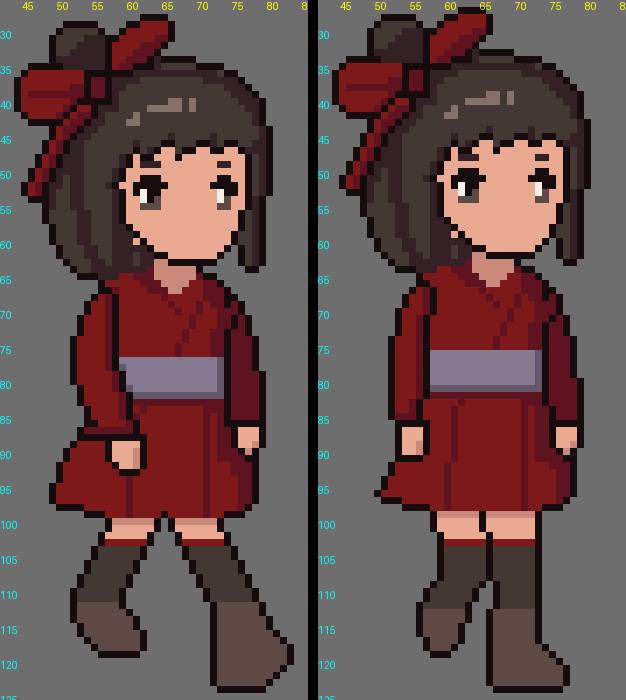
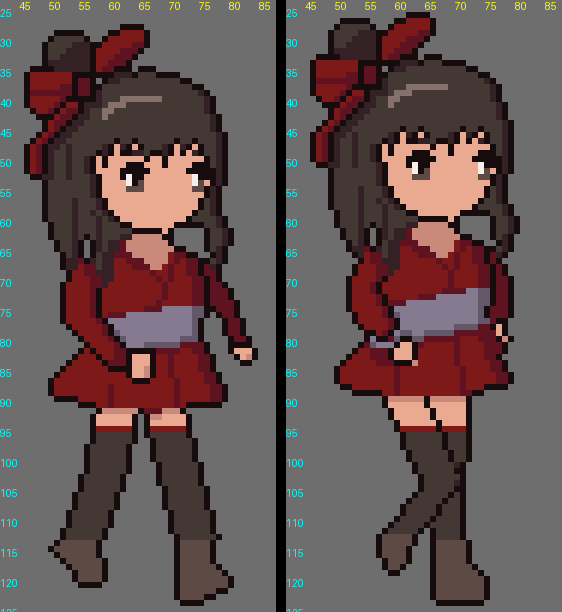
walk SE gold frames v2 (candidate): master SE proportions, lively contact/passing, long side locks; all gates pass

diff --git a/REVIEW/index.html b/REVIEW/index.html
@@ -97,17 +97,18 @@ project: <button data-k="project" data-v="all" class="on">all</button><button da
 <p><a href="exp/2026-10-30_sw_walk_se/pipe/NOTES.md">pipeline notes</a> · <a href="exp/2026-10-30_sw_walk_se/DESIGN_LOCK.md">design lock</a> · <a href="exp/2026-10-30_sw_walk_se/pipe/out/walk_SE/gates.json">gates.json</a></p>
 </div>
 <div class="card" data-project="swordswoman" data-status="needs-review" id="2026-10-30_sw_gold_frames">
-<h3>Gold frames: walk SE contact + passing, hand-authored to the design lock</h3>
+<h3>Gold frames v2: walk SE contact + passing (master SE angle, lively poses, long locks)</h3>
 <div class="meta"><span class="badge" style="background:#d29922">needs-review</span><span class="badge proj">swordswoman</span>result · 2026-10-30 · <a href="#2026-10-30_sw_gold_frames">#</a></div>
-<dl><dt>question</dt><dd>What does &#x27;done&#x27; look like for walk SE? These are two hand-polished frames (contact L, passing L) that follow DESIGN_LOCK.md exactly, for the owner to approve as the target the pipeline is tuned to.</dd><dt>method</dt><dd>Authored by hand in REVIEW/exp/2026-10-30_sw_walk_se/gold/build_gold.py. Large masses are polygons with hand-picked vertices; legs and boots are pixel spans with uniform 1:2 slopes. The bow and bun are a char block (bow_block.txt); hands, cuffs and skirt corners are char-block repaints. Line rules: closed 1-px K silhouette, interior K only at the listed overlaps, pixel-perfect clean-up. Flat 2-tone shading plus one hair sheen. facesys &#x27;open&#x27; eyes and brows at the SE layout. Poses follow walk.json keys 0 and 2 and the round-10 SE strip. Gates: lamet.py metrics plus a palette check (gates.py). One Opus critique, with its fixes applied.</dd><dt>result</dt><dd>Both frames pass every gate: zigzags 0, redundant L-corners 0, outline gaps 0, line-art 2x2 K clumps 0, unlisted interior K 0, one connected piece, 12 colours (K h H g L s S E R O o W), none off-palette. The 5 raw K clumps per frame are inside the exact facesys eye templates (reported separately). Opus round 1 scored line 7, consistency 6, appeal 6 and anatomy 6, before the fixes. Applied fixes: wider V stride on contact, bent passing knee with the foot tucked, asymmetric arms, stronger SE head and body turn, hem raised 2 px, bow redrawn (no mouse ears) with a 1:2 tail, sheen arc, clean mitten hands.</dd><dt>verdict</dt><dd>Needs the owner&#x27;s review. Open questions: approve as gold or mark up pixels; accept the eye-template clumps; jaw/shoulder bob (illustration) or the master&#x27;s longer wavy side locks.</dd><dt>next</dt><dd>Owner approval or pixel mark-up, then tune the walk SE pipeline to match these two frames, with the last fixes going through the override layer.</dd></dl>
+<dl><dt>question</dt><dd>Owner: &#x27;approve style, revise pose&#x27; (DESIGN_LOCK Amendment 1). v2 keeps the approved clean style and adds the master EC0_SE_96 view angle and proportions, a dynamic contact pose, a clearly different risen passing pose, and the master&#x27;s longer side locks.</dd><dt>method</dt><dd>Hand-authored in exp/2026-10-30_sw_walk_se/gold/build_gold.py. Hair, face, neck and collar are placed from measurements of the master; dress, wide obi and narrow sleeves are hand-placed polygons; legs and boots are pixel spans. The bow block and the arm and hand repaints are hand-drawn char rows, each with a reason. Same line rules as v1 (closed 1-px K outline, interior K only at listed overlaps) and the same 14-colour lock. Gates: lamet.py metrics, palette check, one connected piece, silhouette IoU against the master. One Opus critique, with its fixes applied. v1 is kept in gold/v1/.</dd><dt>result</dt><dd>Both frames pass every gate: zigzags 0, L-corners 0, gaps 0, line-art clumps 0 (the 7 eye-template clumps are accepted), unlisted interior K 0, one piece, 12 lock colours. Silhouette IoU against the master: head 0.825 (v1 0.807); full figure 0.662 contact and 0.744 passing (v1 0.644 and 0.714). Torso IoU is capped by the narrow sleeves the lock requires. Contact: heel-strike V stride, back leg on its toe, bent asymmetric arm swing. Passing: body 2 px higher, knee leading, hands crossing the body line. Hair: long wavy side locks and full bangs with the eyes clear. Opus scores before the fixes: line 7, master match 5, liveliness 5, hair 6, appeal 6.</dd><dt>verdict</dt><dd>Needs the owner&#x27;s review. Open: approve v2 as gold, and confirm the +1 px eye offset toward the far side for the pipeline.</dd><dt>next</dt><dd>Owner approval or pixel mark-up, then tune the walk SE pipeline to match these two frames, with the last fixes going through the override layer.</dd></dl>
 <div class="media">
-<figure class="wide"><img loading="lazy" src="exp/2026-10-30_sw_walk_se/gold/board_gold_walk_SE.png"><figcaption>master | pose guide f00 | pose guide f02 | GOLD contact | GOLD passing, 1x and 6x on mid-grey</figcaption></figure>
+<figure class="wide"><img loading="lazy" src="exp/2026-10-30_sw_walk_se/gold/board_gold_walk_SE.png"><figcaption>v2: master | pose guide f00 | pose guide f02 | GOLD contact | GOLD passing, 1x and 6x on mid-grey</figcaption></figure>
 <figure class=""><img loading="lazy" src="exp/2026-10-30_sw_walk_se/gold/gold_toggle.gif"><figcaption>2-frame toggle (contact / passing), 400 ms, 4x</figcaption></figure>
 <figure class=""><img loading="lazy" src="exp/2026-10-30_sw_walk_se/gold/gold_toggle_1x.gif"><figcaption>toggle at 1x</figcaption></figure>
 <figure class=""><img loading="lazy" src="exp/2026-10-30_sw_walk_se/gold/walk_SE_contact.png"><figcaption>gold contact, 1x RGBA</figcaption></figure>
 <figure class=""><img loading="lazy" src="exp/2026-10-30_sw_walk_se/gold/walk_SE_passing.png"><figcaption>gold passing, 1x RGBA</figcaption></figure>
+<figure class="wide"><img loading="lazy" src="exp/2026-10-30_sw_walk_se/gold/v1/board_gold_walk_SE.png"><figcaption>v1 (superseded): style approved, poses revised in v2</figcaption></figure>
 </div>
-<p><a href="exp/2026-10-30_sw_walk_se/gold/NOTES.md">NOTES</a> · <a href="exp/2026-10-30_sw_walk_se/DESIGN_LOCK.md">design lock</a> · <a href="exp/2026-10-30_sw_walk_se/gold/gates.json">gates.json</a> · <a href="exp/2026-10-30_sw_walk_se/gold/critique_opus.txt">Opus critique</a></p>
+<p><a href="exp/2026-10-30_sw_walk_se/gold/NOTES.md">NOTES (v2)</a> · <a href="exp/2026-10-30_sw_walk_se/DESIGN_LOCK.md">design lock + Amendment 1</a> · <a href="exp/2026-10-30_sw_walk_se/gold/gates.json">gates.json</a> · <a href="exp/2026-10-30_sw_walk_se/gold/iou_vs_master.json">IoU vs master</a> · <a href="exp/2026-10-30_sw_walk_se/gold/critique_opus.txt">Opus critique (v2)</a> · <a href="exp/2026-10-30_sw_walk_se/gold/v1/board_gold_walk_SE.png">v1 board</a></p>
 </div>
 <div class="card" data-project="swordswoman" data-status="needs-review" id="2026-10-28_sw_current_build">
 <h3>Swordswoman current build (20261030_66119a7)</h3>

diff --git a/REVIEW/exp/2026-10-30_sw_walk_se/gold/build_gold.py b/REVIEW/exp/2026-10-30_sw_walk_se/gold/build_gold.py
@@ -369,25 +369,6 @@ REGION = {'contact': [(x0, y, 'contact arm/hand repaint', [r]) for x0, y, r in [
         (76, 83, '     KsSK.'),
         (76, 84, '      KK..'),
     ]]}
-REGION_V2A = {'contact': [
-    (46, 79, 'contact arms, hand-drawn: near forearm swung forward (sleeve underside line, cuff/hand line, 4-px mitten in front of the '
-             'skirt; skirt edge runs 1-1-1-1-3); far arm swung back (cuff line, hand tucked behind the hip; right contour 2-7)', [
-        '.......KEEEERKoOOOOOOOOOOOOOoKRRRK.....',
-        '........KEEEERKOOOOOOOOOOOoooKRRRK.....',
-        '.........KEEERKoOOOOooooooRRRKKKK......',
-        '.........KEEEERKooooRRRRRREERRKsssK....',
-        '........KEKEEEERKRRREEEEREEEERRKssK....',
-        '.......KEEEKEERRRKEEEEEEREEEERRKSK.....',
-        '......KEEEEEKKKKKKKEEEEEREEEERRRKK.....',
-        '.....KEEEEEEEKssssKEEEEEREEEEERRRK.....',
-        '....KEEEEEEEEKsssSKEEEEEREEEEERRRK.....',
-        '....KEEEEEEEEKsssSKEEEEEREEEEERRRK.....',
-        '....KEEEEEEEEEKssSKEEEEEREEEEERRRK.....',
-        '.....KKKEEEEEERKKKEEEEEEEREEEEERRK.....',
-        '........KKKEE                          ']),
-]}
-
-
 def render(g, s=1, bg=None):
     a = np.zeros((N, N, 4), np.uint8)
     if bg is not None: a[:] = (*bg, 255)

diff --git a/REVIEW/exp/2026-10-30_sw_walk_se/gold/NOTES.md b/REVIEW/exp/2026-10-30_sw_walk_se/gold/NOTES.md
@@ -1,0 +1,72 @@
+# Gold frames v2: walk SE, contact L and passing L (2026-10-30)
+
+These are v2. They answer the owner's "approve style, revise pose" note and DESIGN_LOCK.md Amendment 1. The style is unchanged from v1: flat 2-tone shading, the 14-colour lock, the eyes-and-brows face and the clean 1-px outline. v2 changes the view angle, proportions, poses and hair. The v1 pair is kept in `v1/`. Status: **needs-review**.
+
+## Files
+| file | what |
+|---|---|
+| `walk_SE_contact.png/.txt` | contact L. Body bob +1 px. |
+| `walk_SE_passing.png/.txt` | passing L. Body rises to −1 px, 2 px above contact. |
+| `board_gold_walk_SE.png` | master, pose guide f00, pose guide f02, gold contact, gold passing, at 1x and as a 6x crop on mid-grey |
+| `gold_toggle.gif`, `gold_toggle_1x.gif` | 2-frame toggle, 400 ms per frame, infinite loop |
+| `gates.json`, `iou_vs_master.json` | gate results and silhouette IoU against EC0_SE_96 |
+| `critique_opus.txt` | the one Opus critique for v2. Fixes applied are listed below. |
+| `build_gold.py`, `bow_block.txt`, `gates.py`, `make_board.py` | source, run with `.models/pixtools/venv/bin/python` |
+
+## What changed from v1
+- **Master view angle and proportions.** These are the shared SE standard from Amendment 1.
+  - The head and hair silhouette, face, neck and collar V are placed from measurements of EC0_SE_96.
+  - The hem sits at about y90, the master's leg length: thighs y91–94, a red sock band at y95, socks to y113, boots from y114.
+  - The obi is a wide band slanted across the front, as on the master: higher at the far (right) end, 6 rows thick.
+  - The face is turned further: the near cheek is wider, the far cheek curves in, and the chin points toward the far side.
+  - The eyes use the facesys templates moved 1 px toward the far side (`EYEDX = 1`). The pipeline should copy this offset.
+- **Contact.**
+  - Legs: the front (screen-right) leg is planted heel-first with the toe lifted. The back leg bends at the knee and stands on its toe. Together they form a wide V stride.
+  - Arms bend asymmetrically: the near arm swings forward with the hand in front of the skirt, and the far arm swings back with the elbow bent and the hand behind.
+- **Passing.**
+  - The body is 2 px higher than on contact.
+  - The swing (near) leg's knee leads forward over the support leg, and its shin trails back with the toe pointing down.
+  - The near hand crosses over the front of the skirt and the far hand tucks back. The obi counter-rotates by 1 px and the back hem corner lifts, so the torso is not a copy of the contact torso.
+- **Hair.** The master's longer side locks frame the face: a near front lock over the shoulder down to about y70, a near-side back lock, and a far lock with an S-step. The bangs are full with strand tips, and the eyes are left clear.
+- **Bow.** The loops are smaller (the bow now spans about x46–66). The tail is redrawn as one ribbon with a free end.
+
+## Gates (both frames PASS)
+| gate | contact | passing | limit |
+|---|---|---|---|
+| zigzags | 0 | 0 | ≤ 1 |
+| redundant L-corners | 0 | 0 | ≤ 2 |
+| outline gaps | 0 | 0 | 0 |
+| 2×2 `K` clumps outside the eye templates | 0 | 0 | 0 |
+| interior `K` not on a listed overlap | 0 | 0 | 0 |
+| connected pieces | 1 | 1 | 1 |
+| colours / off-palette | 12 / none | 12 / none | ≤ 14 |
+
+Each frame has 7 raw clumps, all inside the exact facesys eye templates and brows. The coordinator has accepted these.
+
+## Silhouette IoU against EC0_SE_96 (best within ±2 px of bob)
+| region | v1 contact | v2 contact | v1 passing | v2 passing |
+|---|---|---|---|---|
+| head (y26–65) | 0.807 | 0.825 | 0.807 | 0.825 |
+| torso (y63–91) | 0.781 | 0.730 | 0.785 | 0.769 |
+| head+torso | 0.788 | 0.791 | 0.790 | 0.798 |
+| full | 0.644 | 0.662 | 0.714 | 0.744 |
+
+The head IoU improves. The torso IoU cannot reach the master's: the lock requires narrow sleeves where the master has bell sleeves, and the arms are posed. The full-figure IoU on contact is capped by the stride.
+
+## Opus critique (one call)
+Opus scored line art 7, match to master 5, liveliness 5, hair 6 and appeal 6, before the fixes.
+- **Done.**
+  - Face 3/4: the near cheek is wider, the far cheek curves in, the chin is pointed and the eyes move 1 px toward the far side.
+  - Contact heel strike and toe stand.
+  - Bent far arm swinging back, with the near hand raised and forward.
+  - Passing knee leads and the toe points down.
+  - Passing hands cross the body line, and the torso varies between frames (obi rotation, hem).
+  - Wavier locks, including the far lock's S-step.
+  - Smaller bow and a redrawn tail.
+  - Smoother head contour and the sleeve notch.
+- **Partly done.** The eyes move 1 px, not the suggested 2. They stay close to the facesys layout that the pipeline shares.
+- **Not done.** The boots are not narrowed to 7 px with a heel notch.
+
+## For the owner
+1. Approve v2 as gold, or mark up pixels on `board_gold_walk_SE.png`.
+2. Confirm the pipeline should copy the eye offset (+1 px toward the far side).
